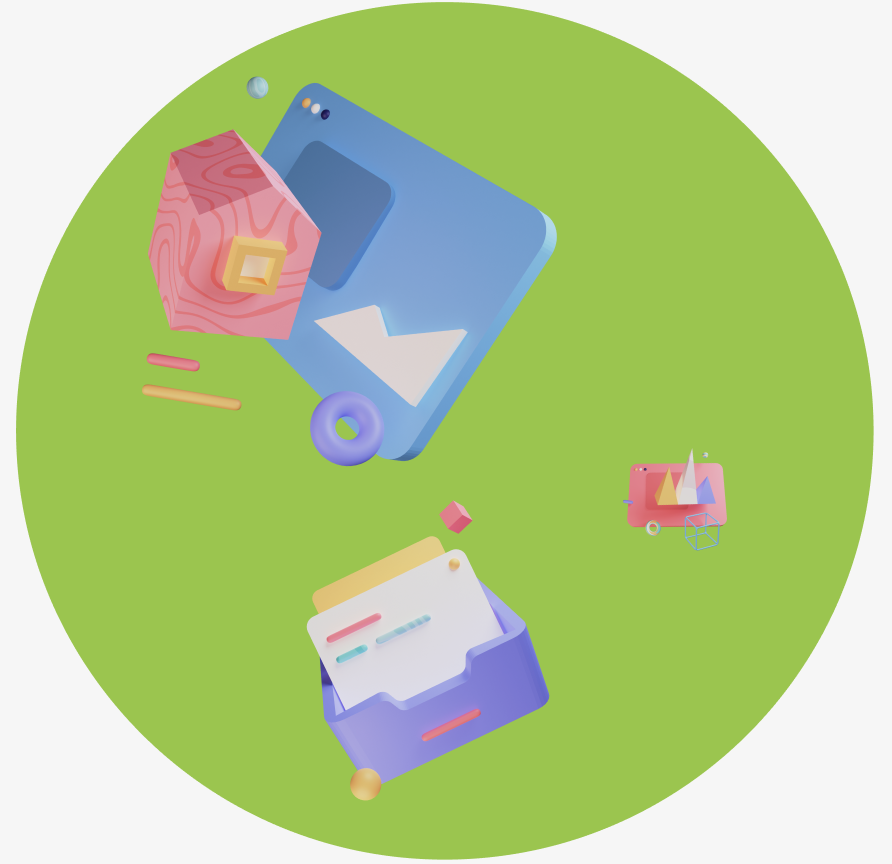
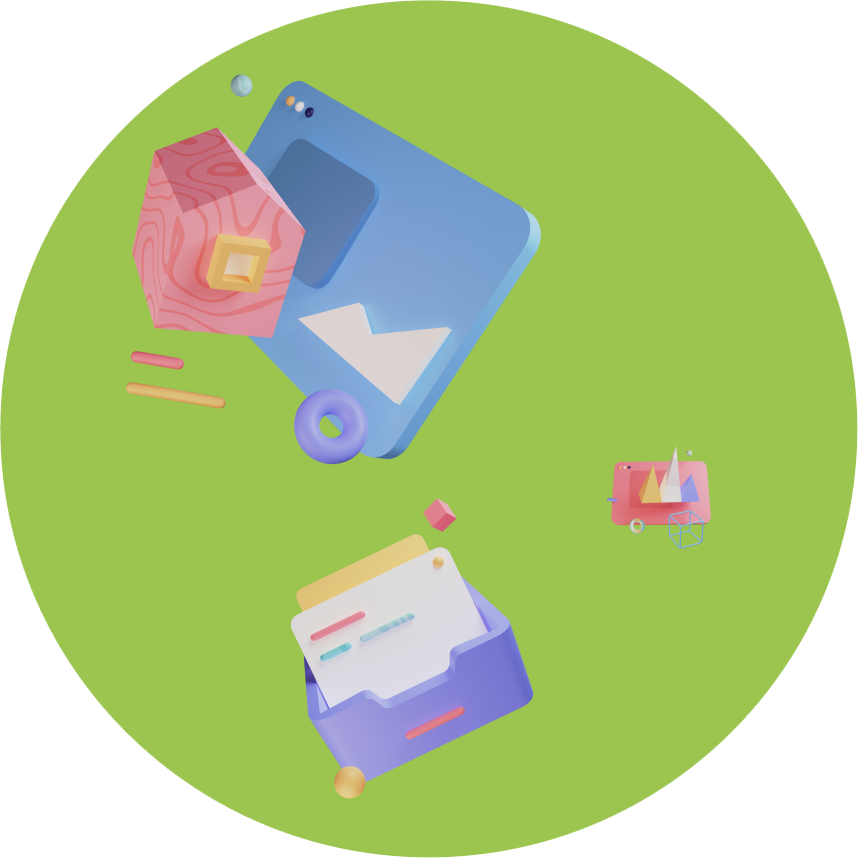
welcome page improvements

diff --git a/lib/Pages/a_welcome_page.dart b/lib/Pages/a_welcome_page.dart
@@ -23,11 +23,11 @@ class WelcomePage extends StatefulWidget {
   }
 }
 
-class _LaunchApp extends State<WelcomePage>
-    with SingleTickerProviderStateMixin {
+class _LaunchApp extends State<WelcomePage> with TickerProviderStateMixin {
   final controllerPhone = TextEditingController(text: "");
   dynamic controllerCode = TextEditingController(text: "");
   dynamic selectLang;
+  bool timerCounter = false;
 
   final List<String> itemsLang = [
     'en',
@@ -37,9 +37,6 @@ class _LaunchApp extends State<WelcomePage>
 
   late AnimationController controller;
   late Animation<double> animation;
-  //late Animation<double> animationElements;
-  //late AnimationController controllerElements;
-  //late Animation<double> animationElements;
 
   @override
   void initState() {
@@ -47,10 +44,6 @@ class _LaunchApp extends State<WelcomePage>
     BlocProvider.of<NetworkChecker>(context)
         .add(CheckInternetConnectionEvent());
     selectLang = false;
-        //controllerElements =
-        //AnimationController(duration: Duration(seconds: 2), vsync: this);
-    //animationElements = CurvedAnimation(parent: controller, curve: Curves.linear);
-   // controllerElements.forward();
     //Logo animation
     controller =
         AnimationController(duration: Duration(seconds: 2), vsync: this);
@@ -60,11 +53,25 @@ class _LaunchApp extends State<WelcomePage>
     timer();
   }
 
+  @override
+  void dispose() {
+    controller.dispose();
+    super.dispose();
+  }
+
   timer() async {
-    await Future.delayed(Duration(milliseconds: 5000));
+    if (timerCounter == false) {
+      await Future.delayed(Duration(milliseconds: 5000));
+    } else {
+      await Future.delayed(Duration(milliseconds: 1000));
+    }
+    timerCounter = true;
     //Reffers to Registration Form
-    Navigator.pushNamedAndRemoveUntil(
-        context, Routes.registrationPage, (Route<dynamic> route) => false);
+
+    if (selectLang == false && timerCounter == true) {
+      Navigator.pushNamedAndRemoveUntil(
+          context, Routes.registrationPage, (Route<dynamic> route) => false);
+    }
   }
 
   @override
@@ -109,9 +116,9 @@ class _LaunchApp extends State<WelcomePage>
                         ])),
                 Expanded(
                   flex: 4,
-                  child: logoImg(true, animation,controller),
+                  child: logoImg(true, animation),
                 ),
-                Expanded(flex: 6, child: welcomeTxt(animation, controller))
+                Expanded(flex: 6, child: welcomeTxt(animation))
               ],
             ),
             networkStatus == false
@@ -276,6 +283,7 @@ class _LaunchApp extends State<WelcomePage>
                                                     () {
                                                   selectLang = !selectLang;
                                                   setState(() {});
+                                                  timer();
                                                 });
                                               },
                                             ),

diff --git a/lib/Widgets/logo_img copy.dart b/lib/Widgets/logo_img copy.dart
@@ -1,7 +1,7 @@
 import 'package:flutter/material.dart';
 // ignore_for_file: prefer_const_constructors
 
-Widget logoImg(signUp, animationElements,controllerElements) {
+Widget logoImg(signUp, animation) {
   return Column(
     mainAxisAlignment: MainAxisAlignment.center,
     children: [
@@ -17,18 +17,24 @@ Widget logoImg(signUp, animationElements,controllerElements) {
               ),
             ),
           ),
-          ScaleTransition(scale: animationElements,
+          RotationTransition(
+      turns: animation,
+      child:
+          ScaleTransition(scale: animation,
       child:
           Container(
-            height: MediaQueryData.fromWindow(WidgetsBinding.instance.window).size.width *(signUp?0.57:0.4),
-            width: MediaQueryData.fromWindow(WidgetsBinding.instance.window).size.width *(signUp?0.93:0.7),
+            height: MediaQueryData.fromWindow(WidgetsBinding.instance.window).size.width *(signUp?0.59:0.4),
+            width: MediaQueryData.fromWindow(WidgetsBinding.instance.window).size.width *(signUp?1:0.7),
             decoration: BoxDecoration(
               image: DecorationImage(
-                image: AssetImage('assets/img/app_img/Main_pic_elements.PNG'),
+                image: AssetImage('assets/img/app_img/Main_pic.PNG'),
                 fit: BoxFit.contain,
               ),
             ),
           ),),
+          ),
+
+
         ],
       )
     ],

diff --git a/lib/Archive/a_welcome_page.dart b/lib/Archive/a_welcome_page.dart
@@ -218,7 +218,7 @@ late Animation<double> animation;
                 networkStatus == 'checking' ||
                         networkStatus == false ||
                         selectLang == true
-                    ? Expanded(flex: 6, child: welcomeTxt(animation, controller))
+                    ? Expanded(flex: 6, child: welcomeTxt(animation))
                     : Expanded(
                         flex: 6,
                         child: Container(),

diff --git a/lib/Widgets/welcome_txt.dart b/lib/Widgets/welcome_txt.dart
@@ -2,7 +2,7 @@ import 'package:flutter/material.dart';
 import '../styles/app_textstyles.dart';
 // ignore_for_file: prefer_const_constructors
 
-Widget welcomeTxt(animation, controller) {
+Widget welcomeTxt(animation) {
   return Column(
     mainAxisAlignment: MainAxisAlignment.center,
     children: [
